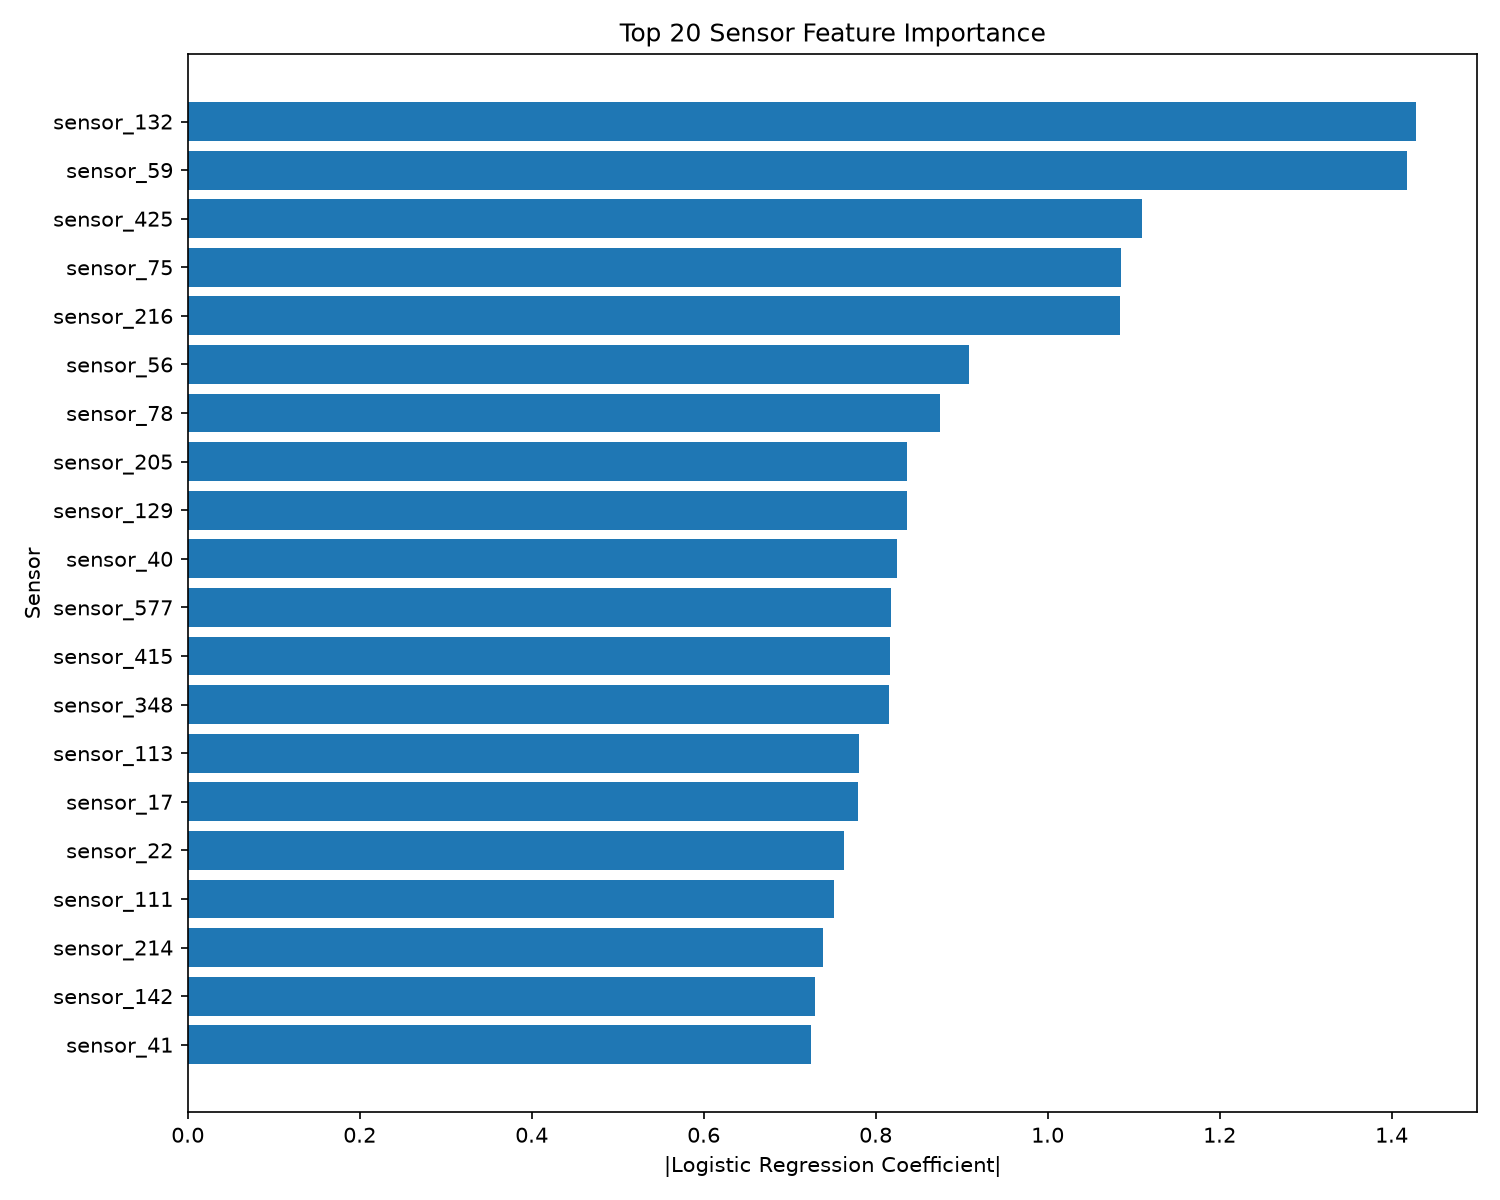
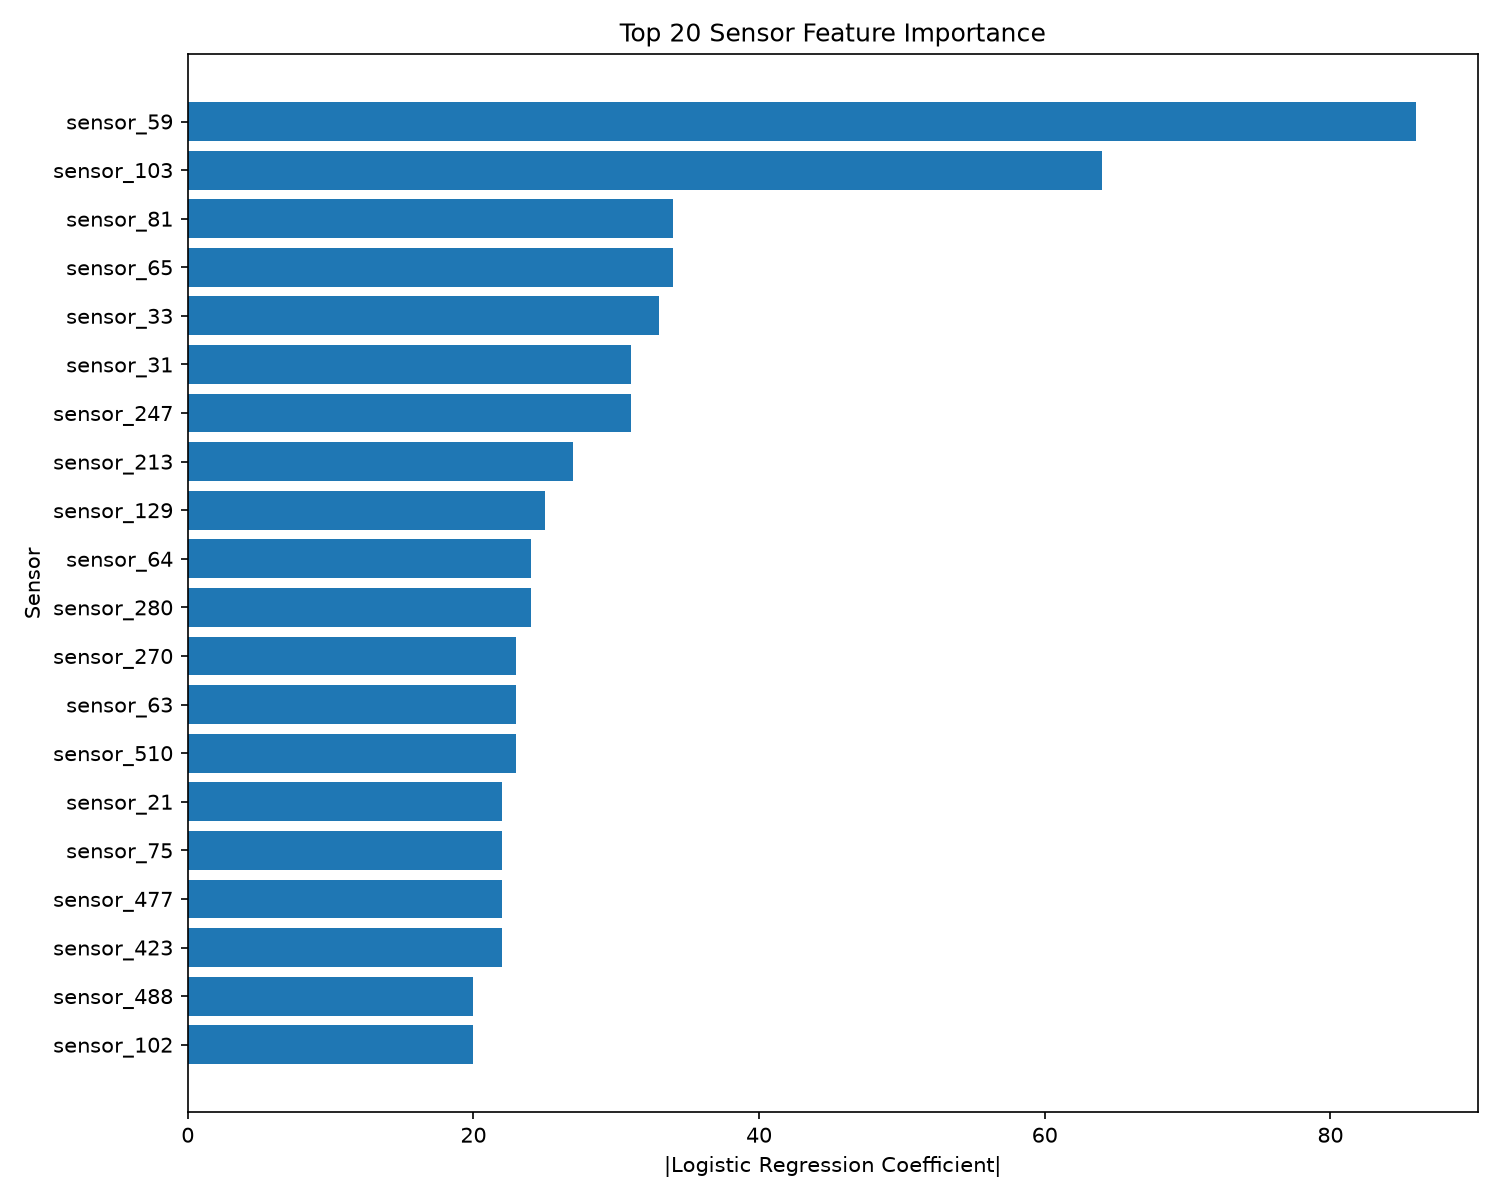
feat: 20개 핵심 센서 기반 OOF Threshold 최적화 및 시각화 완료

diff --git a/src/step8_threshold_oof.py b/src/step8_threshold_oof.py
@@ -33,7 +33,7 @@ except ModuleNotFoundError:
     from split_contract import SOURCE_ROW_ID, PROTOCOL_ID, validate_train_role, training_folds
 
 
-EXPERIMENT_NAME = "lightgbm_all"
+EXPERIMENT_NAME = "xgboost_scale_pos_weight"
 
 
 # ==========================================
@@ -64,9 +64,19 @@ def generate_oof_scores(
     oof_config = config if score_method == "repeated_mean" else replace(
         config, experiment=replace(config.experiment, cv=replace(config.experiment.cv, n_repeats=1))
     )
+    import json
+    
     features, labels, _ = split_frame_to_xy(train_frame, config.dataset)
     if labels.nunique() < 2:
         raise ValueError("OOF를 생성하려면 Train에 정상과 Fail label이 모두 있어야 합니다.")
+
+    # 스텝 5에서 추출한 20개 센서 목록이 있다면 적용
+    selected_sensors_path = Path("logs/selected_sensors_20.json")
+    if selected_sensors_path.exists():
+        with open(selected_sensors_path, "r", encoding="utf-8") as f:
+            top_20_sensors = json.load(f)
+        features = features[top_20_sensors]
+        print(f"[알림] 20개 선정 센서 기반으로 OOF를 진행합니다. (입력 개수: {features.shape[1]})")
 
     experiment_pipeline = build_pipeline(config, experiment_name, n_jobs=n_jobs)
 
@@ -254,18 +264,41 @@ def main() -> None:
         score_method=arguments.score_method,
         experiment_name=arguments.experiment,
     )
-    # 전체 비교표는 CSV에 저장하고, 콘솔에는 판단에 필요한 대표 후보만 표시한다.
-    default_row = threshold_frame.loc[
-        np.isclose(threshold_frame["threshold"], 0.5)
-    ]
-    console_summary = pd.concat(
-        [
-            threshold_frame.nlargest(5, "f1"),
-            threshold_frame.nlargest(5, "recall"),
-            default_row,
+    
+    print("\n" + "=" * 65)
+    print("📊 Recall 목표 완화에 따른 Precision(정확도) 변화 비교")
+    print("=" * 65)
+    
+    target_recalls = [0.40, 0.50, 0.60, 0.70]
+    comparison_rows = []
+
+    for target in target_recalls:
+        # 해당 Recall 이상을 만족하고 유효한 Threshold(> 0.0001) 구간 필터링
+        candidates = threshold_frame[
+            (threshold_frame["recall"] >= target) & (threshold_frame["threshold"] > 0.0001)
         ]
-    ).drop_duplicates(subset=["threshold"]).sort_values("threshold")
-    print(console_summary.to_string(index=False))
+        if not candidates.empty:
+            # Precision이 가장 높은 행 선택
+            best_row = candidates.sort_values(
+                by=["precision", "f1", "threshold"], 
+                ascending=[False, False, False]
+            ).iloc[0]
+            comparison_rows.append({
+                "Target Recall": f">={int(target*100)}%",
+                "Threshold": f"{best_row['threshold']:.4f}",
+                "Recall (실제)": f"{best_row['recall']*100:.2f}%",
+                "Precision (정확도)": f"{best_row['precision']*100:.2f}%",
+                "F1-Score": f"{best_row['f1']:.4f}",
+                "Reinspection Ratio": f"{best_row['reinspection_ratio']*100:.2f}%"
+            })
+
+    if comparison_rows:
+        summary_df = pd.DataFrame(comparison_rows)
+        print(summary_df.to_string(index=False))
+        print("=" * 65 + "\n")
+    else:
+        print("⚠ 조건을 만족하는 Threshold 구간을 찾지 못했습니다.")
+
     print(f"OOF 생성 시간(초): {elapsed_seconds:.3f}")
     print(f"OOF 저장 경로: {arguments.oof_output}")
     print(f"Threshold 비교 저장 경로: {arguments.threshold_output}")

diff --git a/src/step5_analysis.py b/src/step5_analysis.py
@@ -308,89 +308,41 @@ print(
 
 
 # ============================================================
-# 9. Logistic Regression Feature Importance
+# 9. LightGBM Feature Importance & Top 20 센서 추출
 # ============================================================
-#
-# Logistic Regression coefficient의 절댓값을
-# feature 영향도처럼 사용한다.
-#
-# coefficient의 절댓값이 클수록
-# 해당 feature가 모델의 결정에 더 큰 영향을 줄 가능성이 있다.
-#
-# 주의:
-# Tree 모델의 feature_importances_와 동일한 개념은 아니다.
-# ============================================================
+import json
+from lightgbm import LGBMClassifier
 
 print("\n" + "=" * 70)
-print("[4] Logistic Regression Feature Importance")
+print("[4] LightGBM Feature Importance (Top 20 추출)")
 print("=" * 70)
 
-
-baseline_pipeline = Pipeline(
-    steps=[
-        (
-            "imputer",
-            SimpleImputer(
-                strategy="median"
-            ),
-        ),
-        (
-            "scaler",
-            StandardScaler(),
-        ),
-        (
-            "model",
-            LogisticRegression(
-                max_iter=1000,
-                random_state=(
-                    config.experiment.cv.random_state
-                ),
-            ),
-        ),
-    ]
+# 트리 기반 모델 학습 (Gain 기준 및 클래스 불균형 반영)
+lgb_model = LGBMClassifier(
+    random_state=config.experiment.cv.random_state,
+    n_estimators=200,
+    importance_type='gain',  # 변별력이 높은 Gain 기준 사용
+    scale_pos_weight=(len(y_train) - sum(y_train)) / sum(y_train), # 불량 비율 가중치 반영
+    verbose=-1
 )
+lgb_model.fit(X_train, y_train)
 
-
-# Train에만 fit
-baseline_pipeline.fit(
-    X_train,
-    y_train,
-)
-
-
-model = baseline_pipeline.named_steps[
-    "model"
-]
-
-coefficients = model.coef_[0]
-
-
+# Importance 추출
 feature_importance = pd.DataFrame(
     {
         "feature": feature_columns,
-        "coefficient": coefficients,
-        "importance": abs(coefficients),
+        "importance": lgb_model.feature_importances_,
     }
-)
+).sort_values("importance", ascending=False).reset_index(drop=True)
 
+# 상위 20개 센서 추출 및 JSON 파일 저장
+top_20_sensors = feature_importance["feature"].head(20).tolist()
+selected_sensors_path = LOG_DIR / "selected_sensors_20.json"
 
-feature_importance = (
-    feature_importance
-    .sort_values(
-        "importance",
-        ascending=False,
-    )
-    .reset_index(drop=True)
-)
+with open(selected_sensors_path, "w", encoding="utf-8") as f:
+    json.dump(top_20_sensors, f, ensure_ascii=False, indent=4)
 
-
-print("\nTop 20 Feature Importance")
-
-print(
-    feature_importance
-    .head(20)
-    .to_string(index=False)
-)
+print(f"\n[성공] 상위 20개 센서 저장 완료: {selected_sensors_path}")
 
 
 # ------------------------------------------------------------
